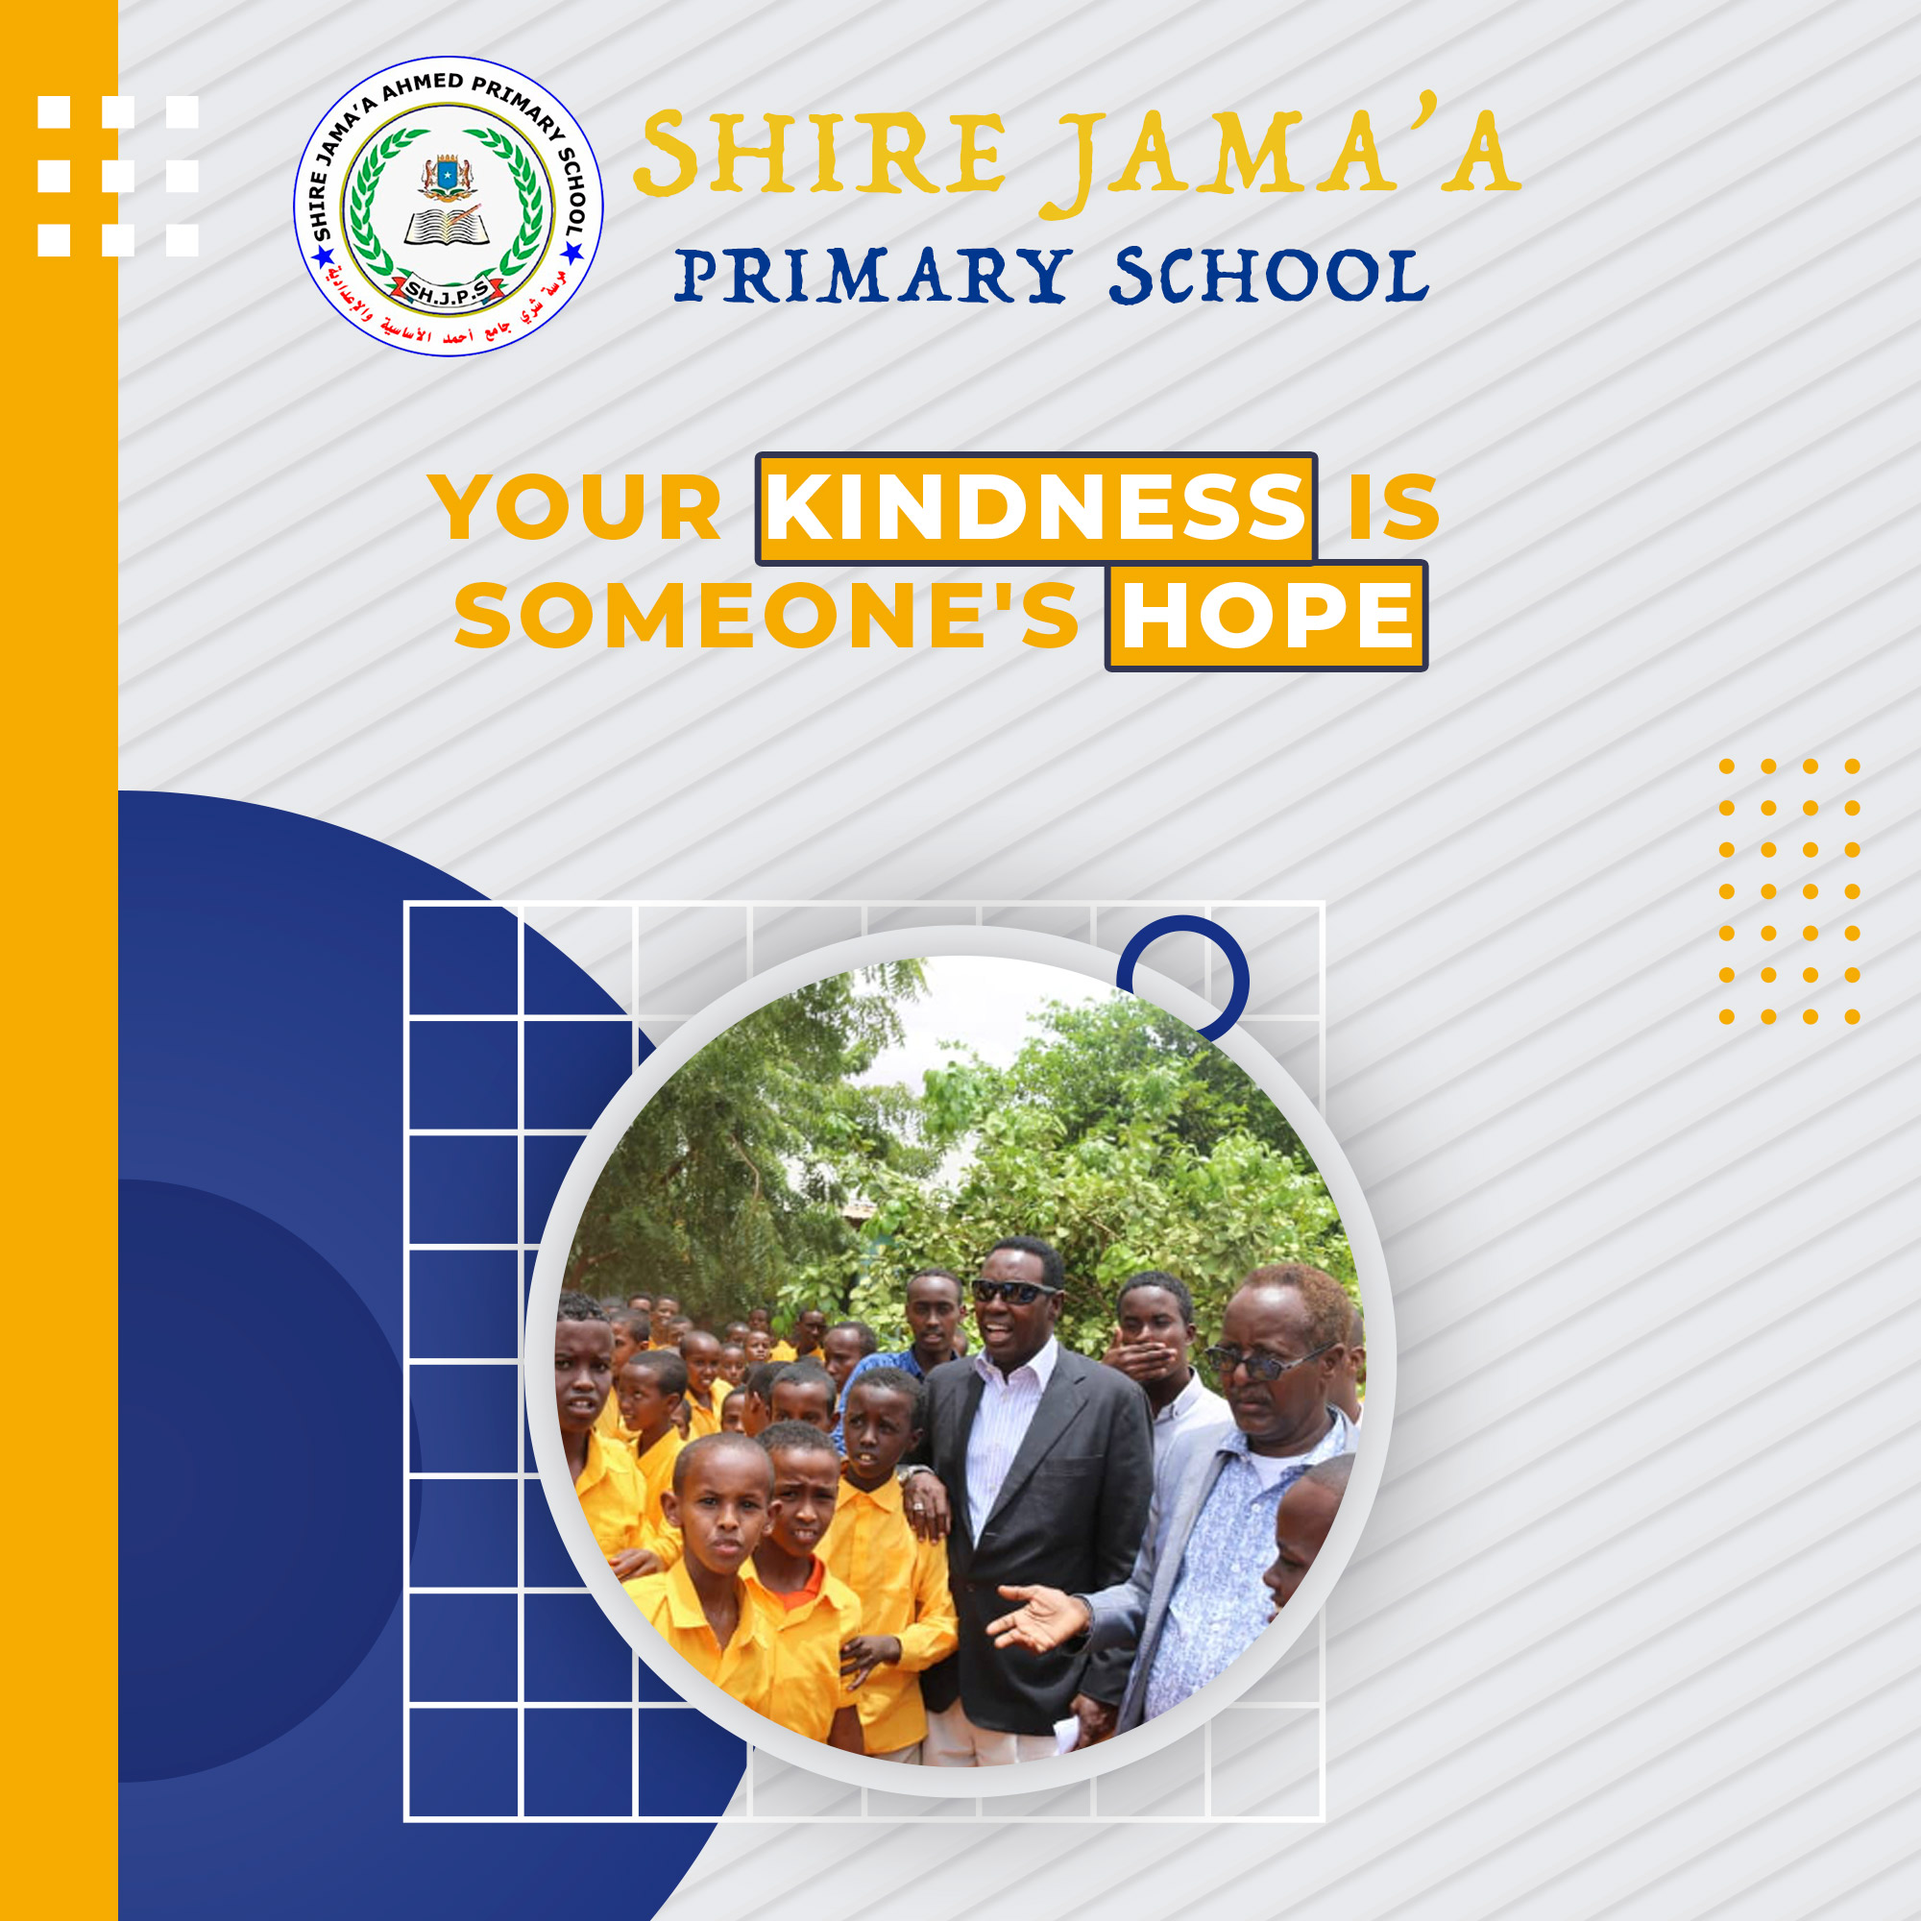
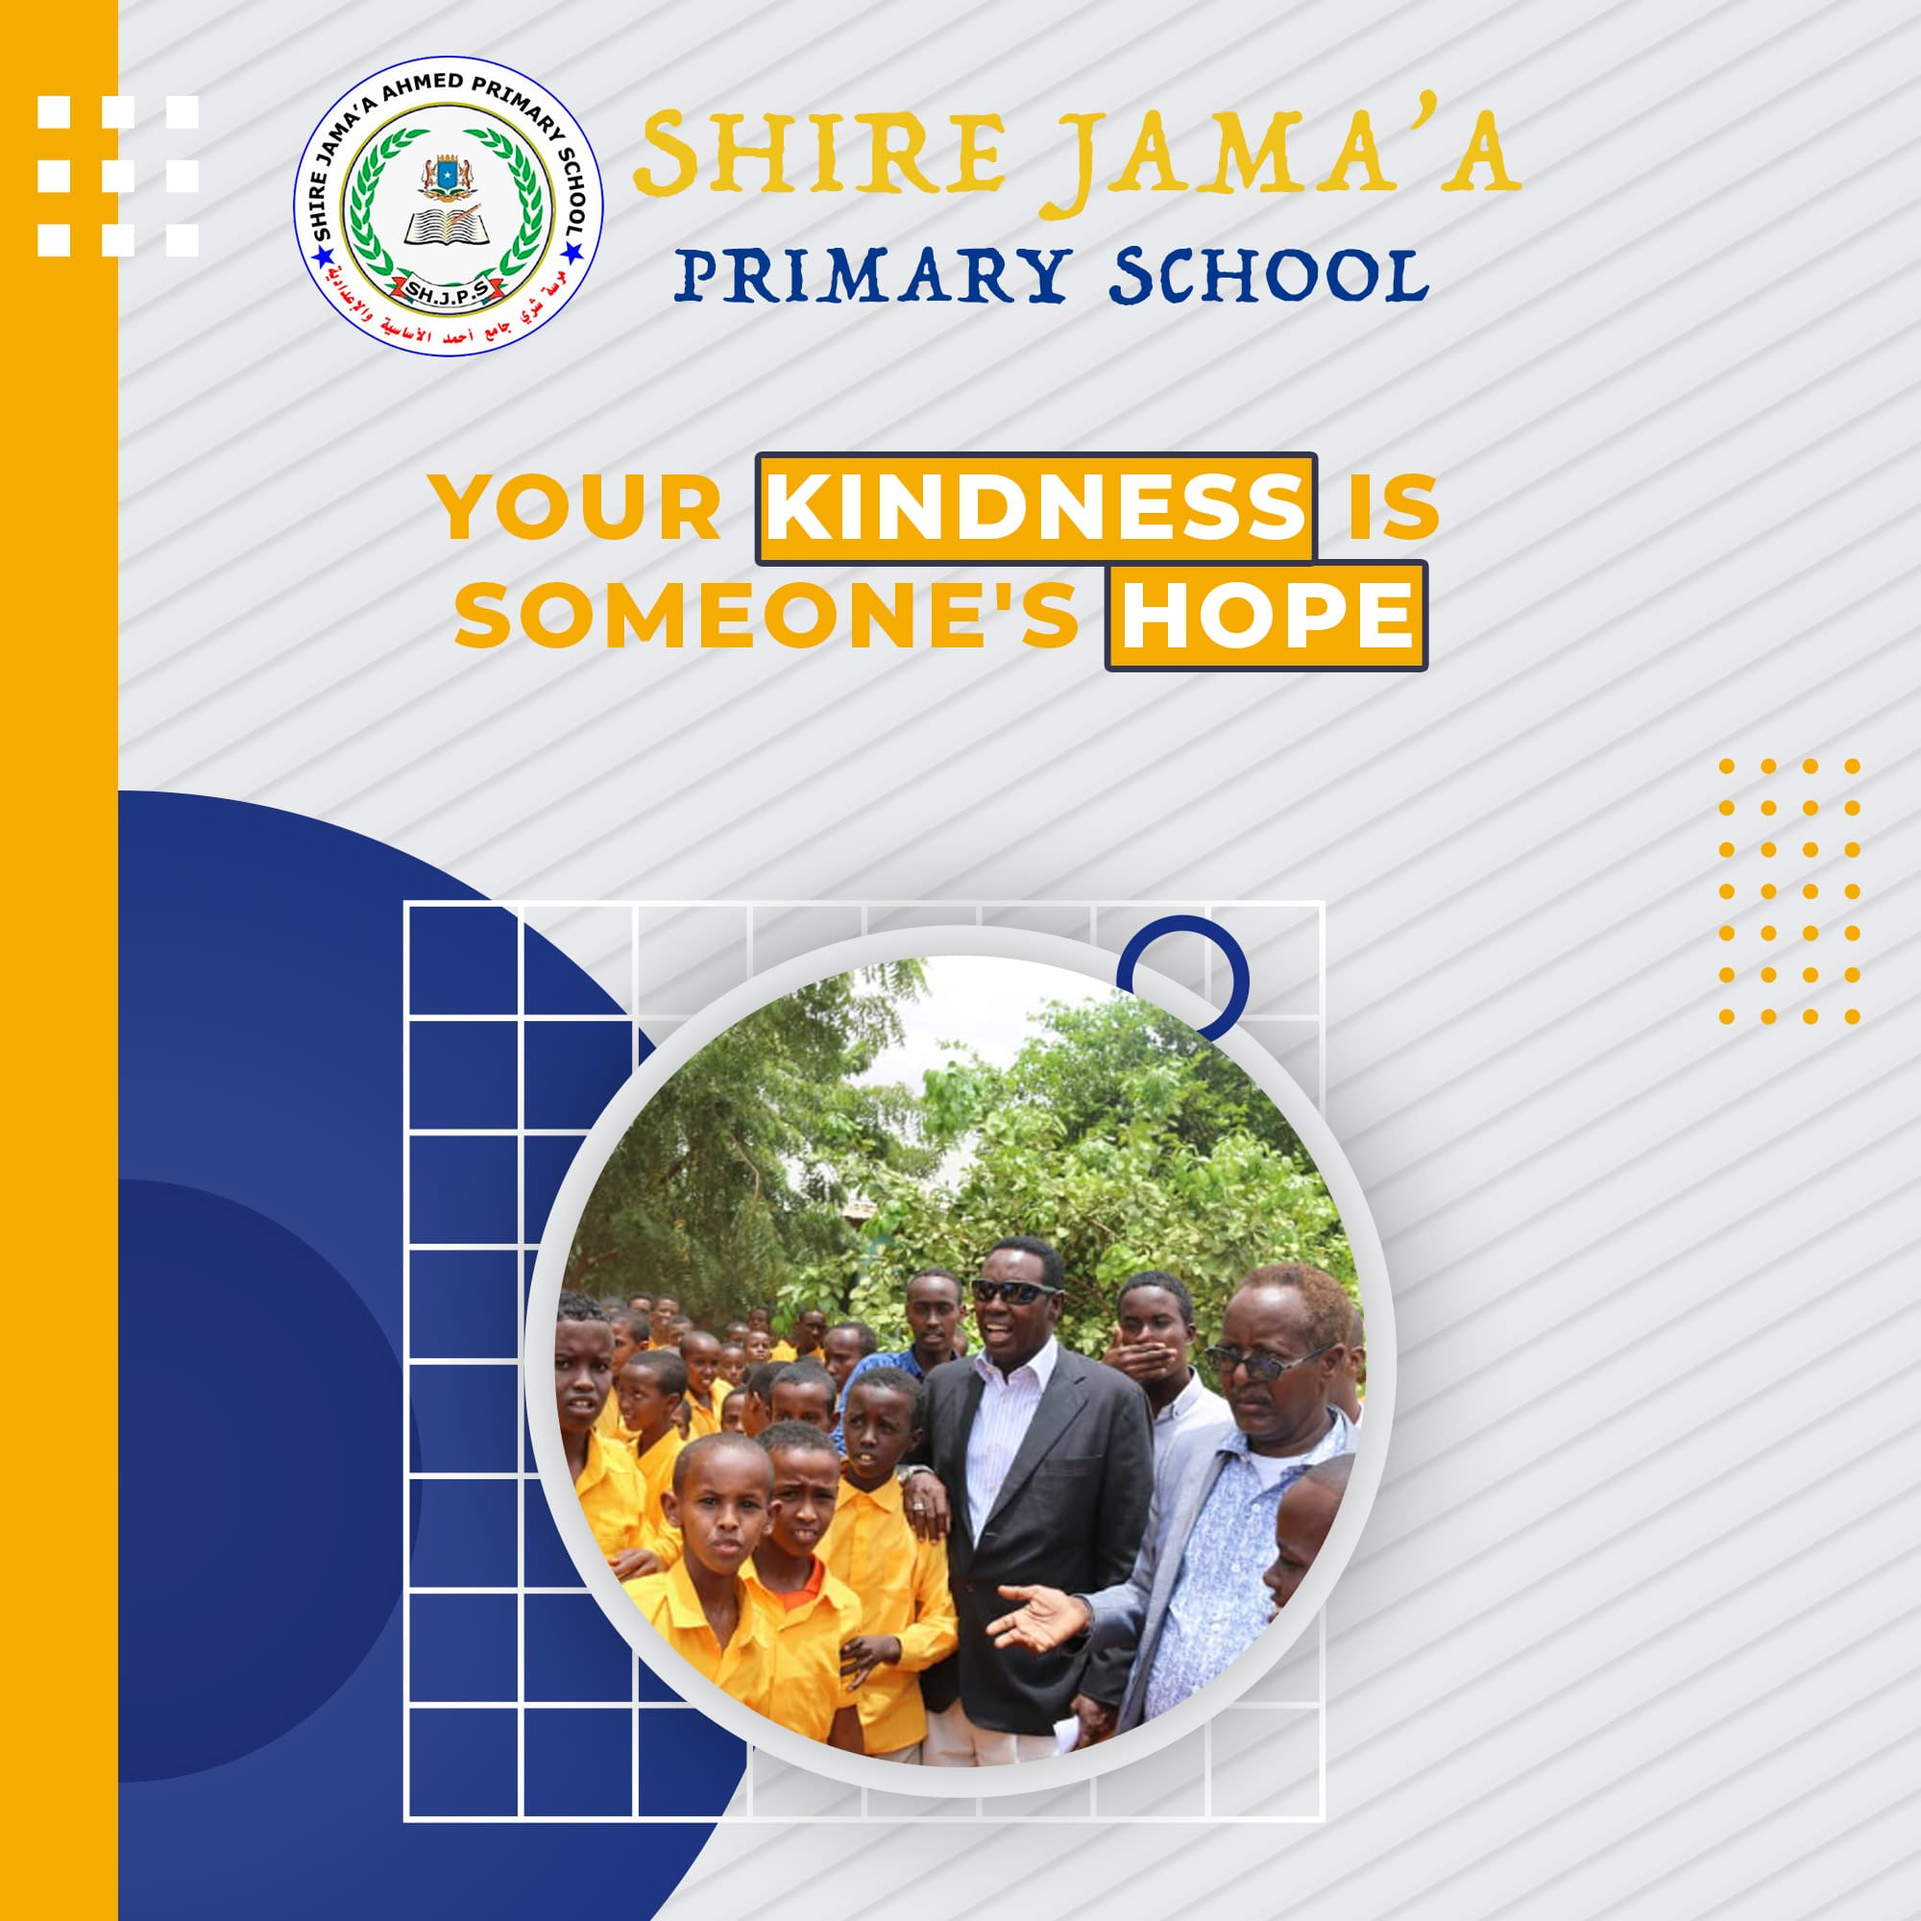
image compresion Done

diff --git a/src/index.html b/src/index.html
@@ -80,7 +80,7 @@
     <div id="carouselExampleIndicators" class="carousel slide" data-ride="carousel">
       <div class="carousel-inner" role="listbox">
         <div class="carousel-item active">
-          <div class="img"><img class="d-block img-fluid" src="assets/img/slide/studentone.png" alt="First slide"></div>
+          <div class="img"><img class="d-block img-fluid" src="assets/img/slide/studentone.jpg" alt="First slide"></div>
         </div>
         <div class="carousel-item">
           <div class="img"><img class="d-block img-fluid" data-src="assets/img/slide/studenttwo.jpg" alt="Second slide"></div>
@@ -92,7 +92,7 @@
           <div class="img"><img class="d-block img-fluid" data-src="assets/img/slide/grils.jpg" alt="Third slide"></div>
         </div>
         <div class="carousel-item">
-          <div class="img"><img class="d-block img-fluid" data-src="assets/img/slide/strive.png" alt="Third slide"></div>
+          <div class="img"><img class="d-block img-fluid" data-src="assets/img/slide/strive.jpg" alt="Third slide"></div>
         </div>
         <div class="carousel-item">
           <div class="img"><img class="d-block img-fluid" data-src="assets/img/slide/arday.jpg" alt="Third slide"></div>
